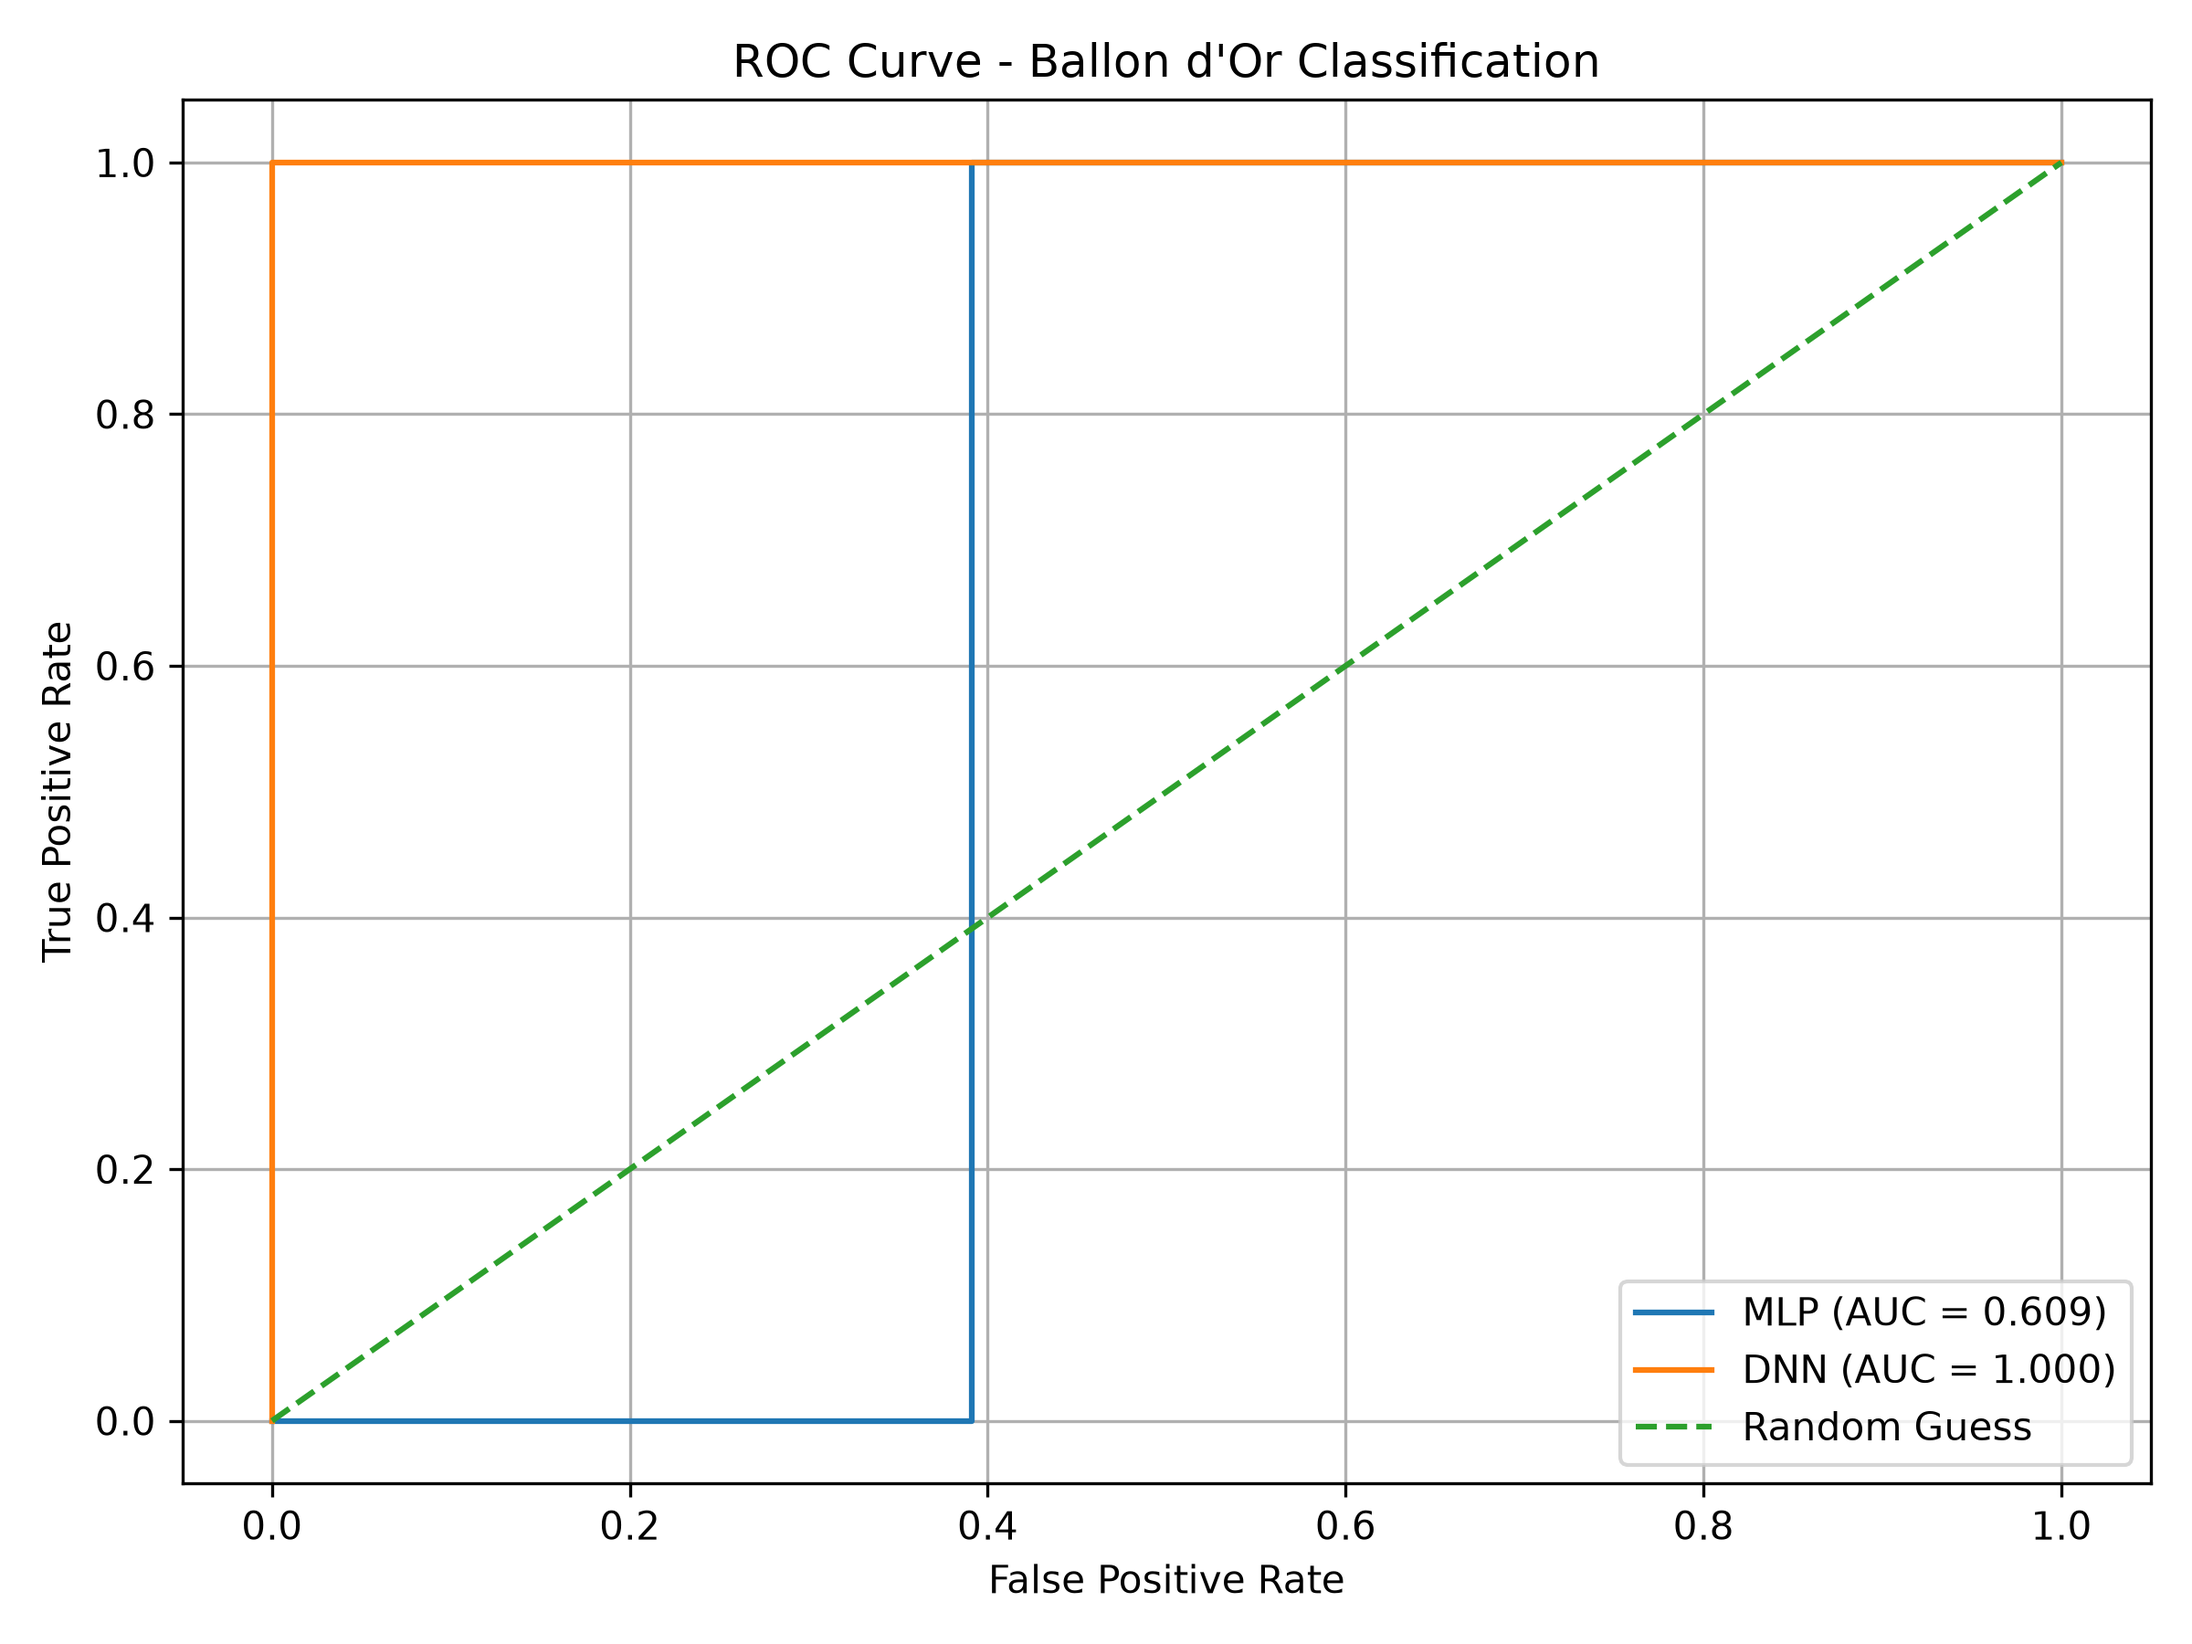
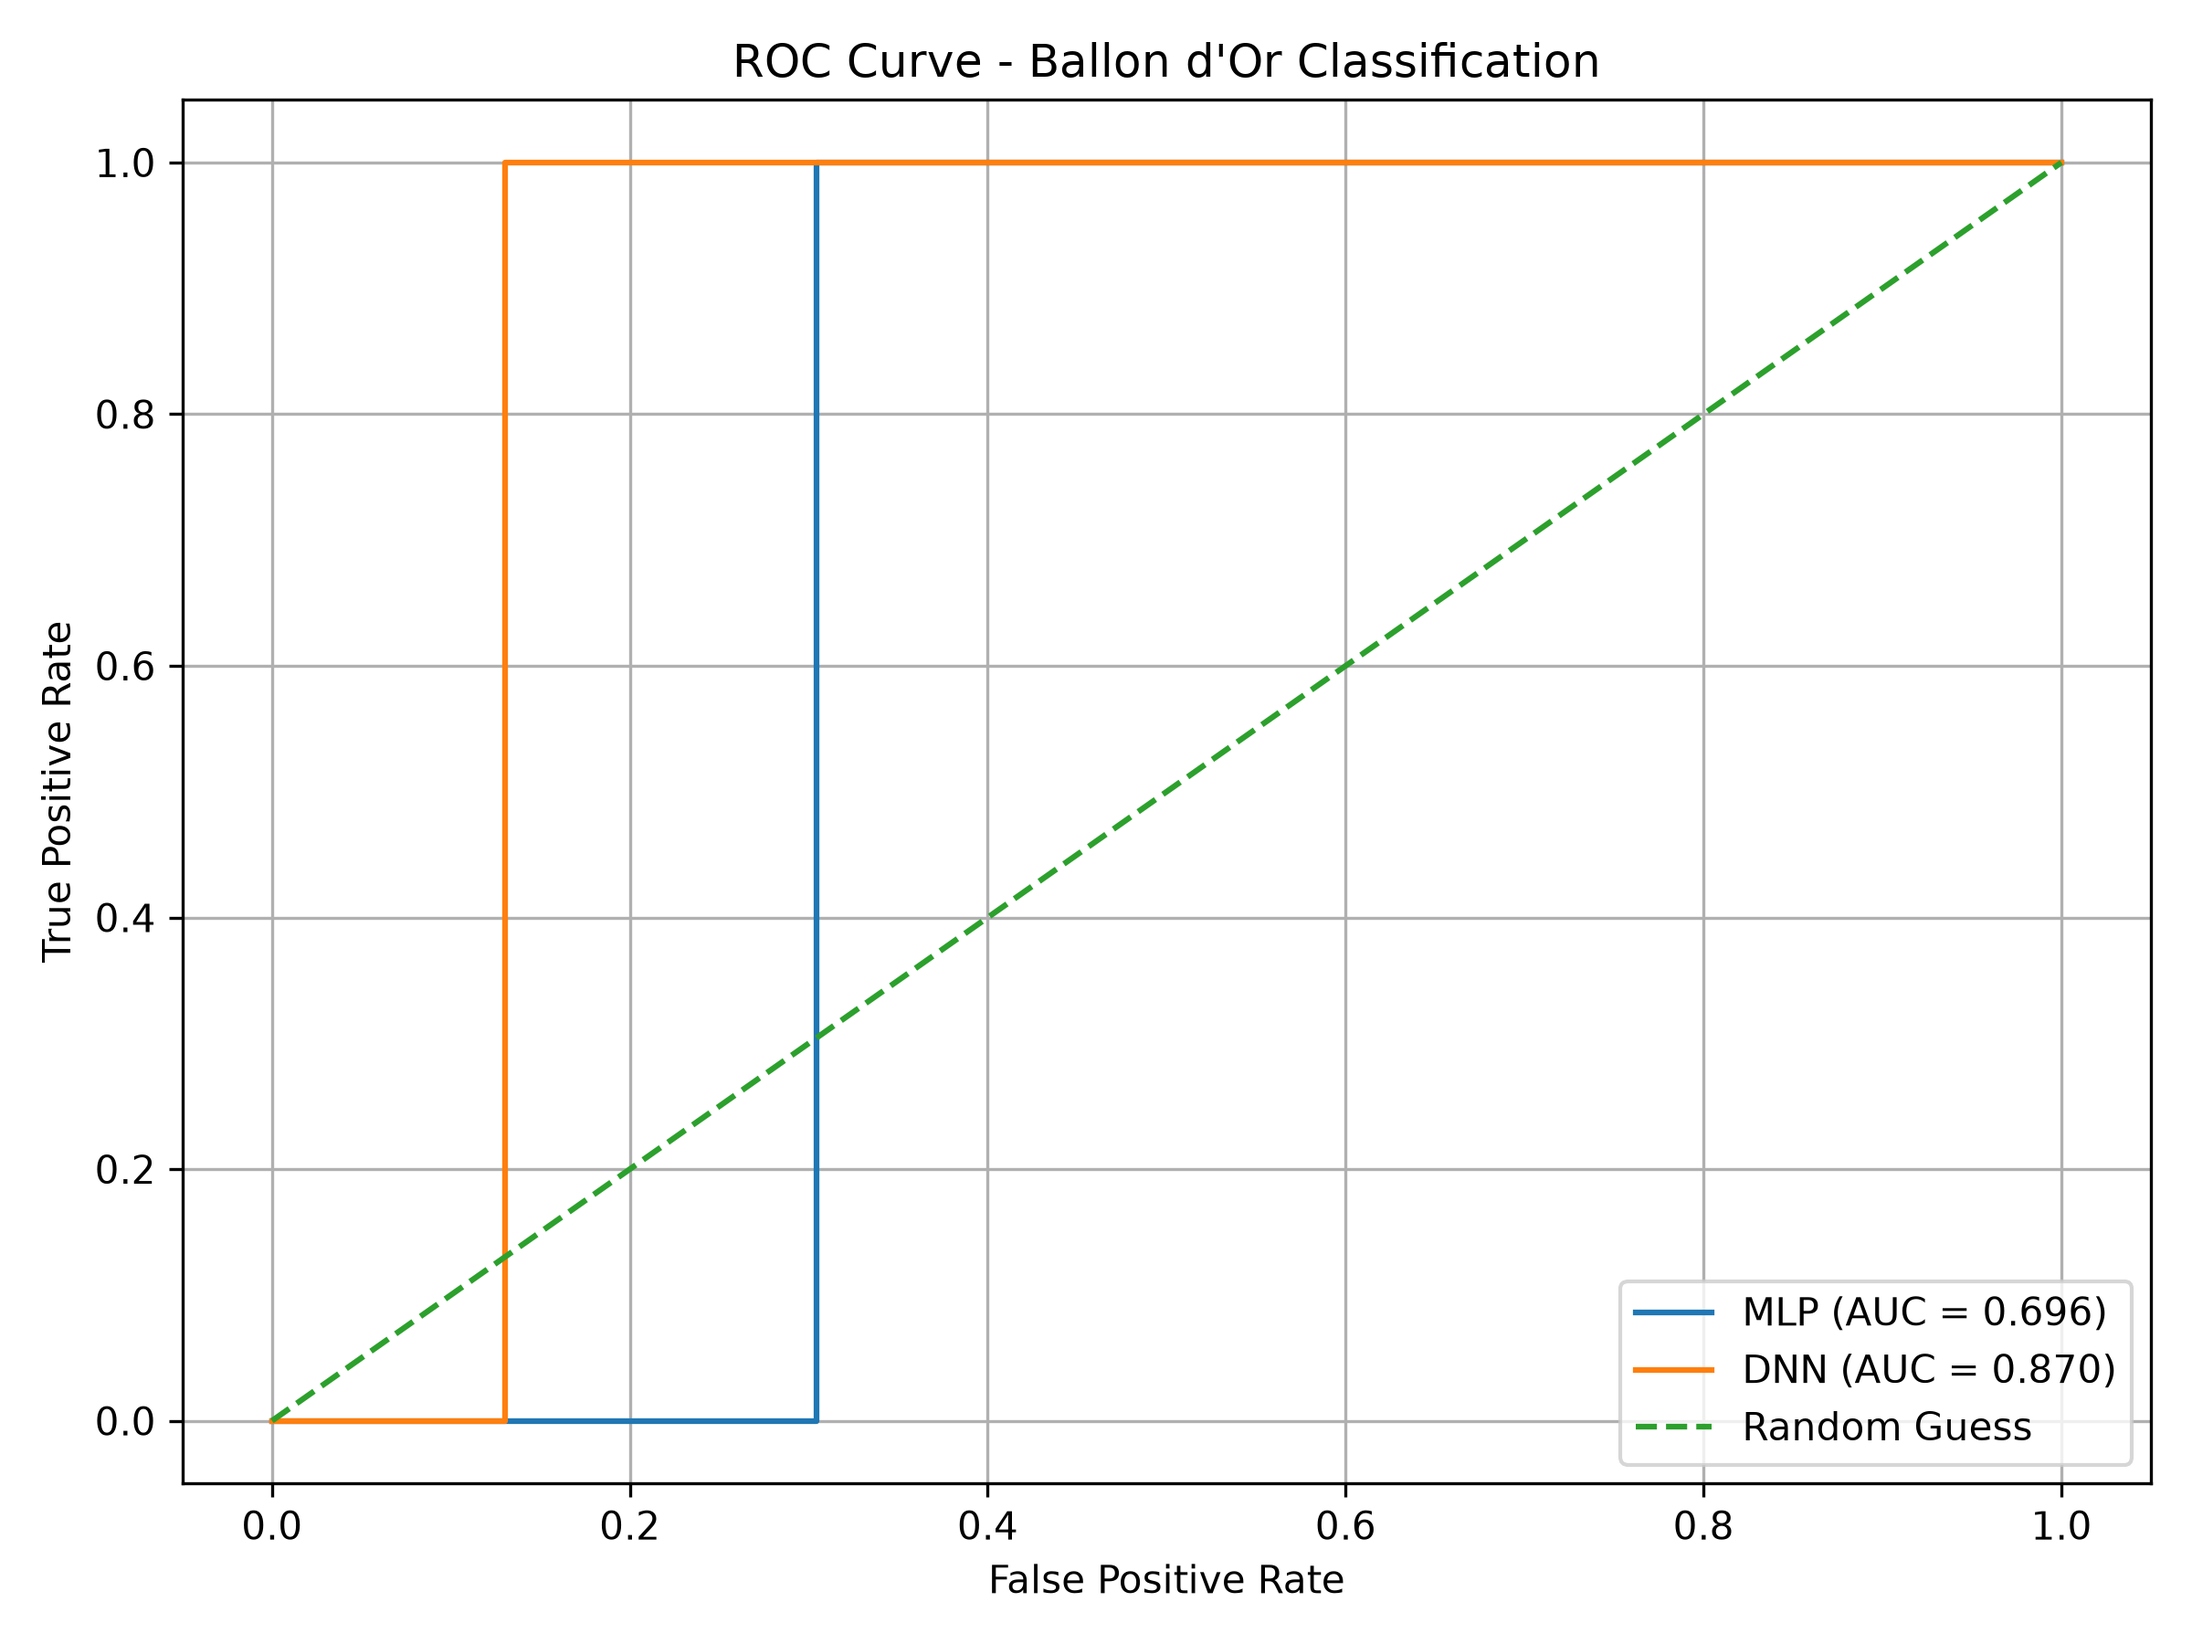
final

diff --git a/main7.py b/main7.py
@@ -1,7 +1,3 @@
-# ============================================================
-# BALLON D'OR 2026 WINNER PREDICTION - WEEK 6
-# ============================================================
-
 import os
 import warnings
 warnings.filterwarnings("ignore")
@@ -10,6 +6,7 @@ import numpy as np
 import pandas as pd
 import matplotlib.pyplot as plt
 import tensorflow as tf
+import seaborn as sns
 
 from sklearn.model_selection import train_test_split
 from sklearn.preprocessing import StandardScaler
@@ -81,6 +78,76 @@ print("Shape:", df2026.shape)
 
 print("\n2026 COLUMNS:")
 print(df2026.columns.tolist())
+# ============================================================
+# 3. EXPLORATORY DATA ANALYSIS (EDA)
+# ============================================================
+
+print("\n" + "=" * 75)
+print("EXPLORATORY DATA ANALYSIS")
+print("=" * 75)
+
+print("\nDataset Shape:")
+print(historical_df.shape)
+
+print("\nColumn Data Types:")
+print(historical_df.dtypes)
+
+print("\nMissing Values:")
+print(historical_df.isnull().sum())
+
+print("\nDescriptive Statistics:")
+print(historical_df.describe(include="all").transpose())
+
+# Save EDA summary for the report
+eda_summary = pd.DataFrame({
+    "Column": historical_df.columns,
+    "Data_Type": historical_df.dtypes.astype(str).values,
+    "Missing_Values": historical_df.isnull().sum().values,
+    "Unique_Values": historical_df.nunique().values
+})
+
+eda_summary.to_csv(
+    os.path.join(RESULTS_FOLDER, "eda_summary.csv"),
+    index=False
+)
+
+# Winner distribution
+plt.figure(figsize=(6, 5))
+historical_df["Rank"].eq(1).astype(int).value_counts().sort_index().plot(
+    kind="bar"
+)
+plt.title("Ballon d'Or Winner Class Distribution")
+plt.xlabel("Winner (0 = No, 1 = Yes)")
+plt.ylabel("Number of Records")
+plt.xticks([0, 1], ["Not Winner", "Winner"], rotation=0)
+plt.tight_layout()
+plt.savefig(
+    os.path.join(RESULTS_FOLDER, "target_distribution.png"),
+    dpi=300
+)
+plt.show()
+
+# Numerical correlation heatmap
+numeric_eda = historical_df.select_dtypes(include=np.number)
+
+if numeric_eda.shape[1] >= 2:
+    plt.figure(figsize=(10, 7))
+    sns.heatmap(
+        numeric_eda.corr(),
+        annot=True,
+        fmt=".2f",
+        cmap="coolwarm"
+    )
+    plt.title("Numerical Feature Correlation Heatmap")
+    plt.tight_layout()
+    plt.savefig(
+        os.path.join(RESULTS_FOLDER, "correlation_heatmap.png"),
+        dpi=300
+    )
+    plt.show()
+
+print("\nEDA completed. EDA files and graphs were saved in the results folder.")
+
 # ============================================================
 # 3. CREATE TARGET
 # ============================================================
@@ -1096,6 +1163,45 @@ prediction_results.head(10).to_csv(
     index=False
 )
 
+
+# ============================================================
+# 35A. RESULTS AND ANALYSIS SUMMARY
+# ============================================================
+
+best_by_f1 = comparison.loc[
+    comparison["F1"].idxmax(),
+    "Model"
+]
+
+best_by_auc = comparison.loc[
+    comparison["AUC"].idxmax(),
+    "Model"
+]
+
+analysis_text = (
+    "Assignment 7 Results and Analysis\\n"
+    "=================================\\n\\n"
+    f"Best model by F1-score: {best_by_f1}\\n"
+    f"Best model by ROC-AUC: {best_by_auc}\\n\\n"
+    "The models were evaluated using accuracy, precision, recall, "
+    "F1-score and ROC-AUC. F1-score is particularly useful here "
+    "because Ballon d'Or winners form a minority class. ROC-AUC "
+    "measures the models' ability to distinguish winners from "
+    "non-winners across classification thresholds. The training "
+    "and validation graphs can be used to discuss learning "
+    "behaviour and possible overfitting. The confusion matrices "
+    "show the numbers of true positives, true negatives, false "
+    "positives and false negatives.\\n"
+)
+
+print("\n" + analysis_text)
+
+with open(
+    os.path.join(RESULTS_FOLDER, "results_analysis.txt"),
+    "w",
+    encoding="utf-8"
+) as f:
+    f.write(analysis_text)
 
 # ============================================================
 # 36. TOP 10 GRAPH
